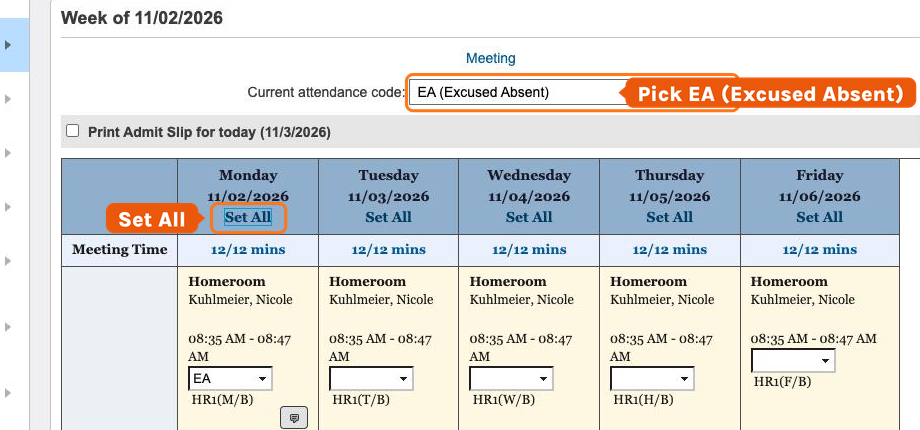
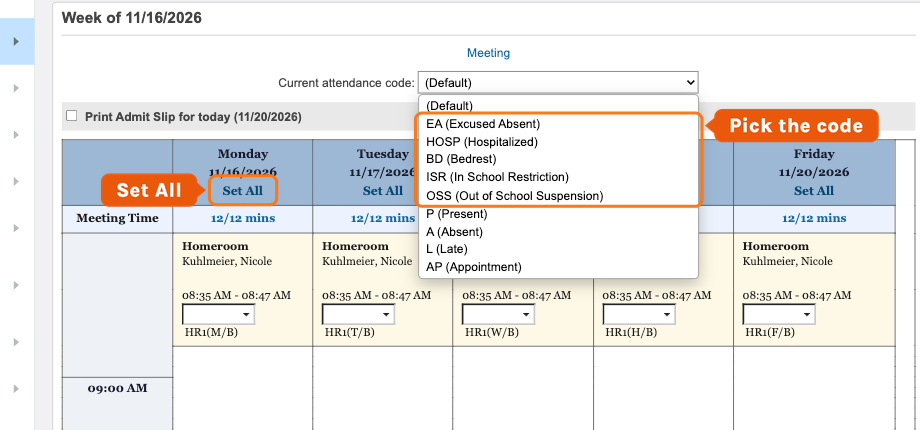
Enter an Attendance Code: picture 4 re-shot with the code list open

diff --git a/excuse-absence-admin.html b/excuse-absence-admin.html
@@ -153,7 +153,7 @@ body.narrow table.codes.pick td.w::before{content:"Usually: ";font-weight:400;co
 
 <section class="step" id="step-3"><span class="eyebrow">STEP 3 OF 5</span><h2>Click Attendance, then pick the week</h2><ol class="steps"><li><span class="num">1</span><div>In the student's left-hand menu click <span class="path">Attendance</span> &mdash; a menu pops out next to it.</div></li><li><span class="num">2</span><div><b>This week:</b> click <span class="path">Modify Attendance</span> in that pop-out menu.</div></li><li><span class="num">3</span><div><b>Any other week:</b> click <b>Attendance Overview</b> instead &mdash; the whole term, one column per week &mdash; then click the <b>blue dates</b> of the week you need at the top of the grid (for example <b>9/14-9/18</b>).</div></li></ol><figure class="fig"><a href="ea-2.png" target="_blank" rel="noopener"><img src="ea-2.png" alt="the Attendance pop-out menu with Modify Attendance"></a><div class="ph"><span class="pl">PICTURE 2</span>Screenshot coming: the Attendance pop-out menu with Modify Attendance.</div><figcaption><b>PICTURE 2</b> &mdash; This week: Attendance, then Modify Attendance in the pop-out.</figcaption></figure><figure class="fig"><a href="ea-3.png" target="_blank" rel="noopener"><img src="ea-3.png" alt="Attendance Overview with the blue week dates"></a><div class="ph"><span class="pl">PICTURE 3</span>Screenshot coming: Attendance Overview with the blue week dates.</div><figcaption><b>PICTURE 3</b> &mdash; Any other week: on Attendance Overview, click the blue dates of the week you need (here 9/14-9/18).</figcaption></figure><div class="pager"><button class="ghost" data-go="step-2">Back</button><button data-go="step-4">Next: Pick the code: EA &rarr;</button></div></section>
 
-<section class="step" id="step-4"><span class="eyebrow">STEP 4 OF 5</span><h2>Pick the code</h2><ol class="steps"><li><span class="num">1</span><div>Open the <b>Current attendance code</b> list and pick the code that fits. These five are at the <b>top</b> of the list.<table class="codes pick"><tr><th>PICK</th><th>THE STUDENT IS</th><th>WHO USUALLY</th></tr><tr><td class="c"><span class="path">EA (Excused Absent)</span></td><td>Absent and excused</td><td class="w">Social workers</td></tr><tr class="new"><td class="c"><span class="path">HOSP (Hospitalized)</span></td><td>In the hospital <i>&mdash; one day or weeks at a time</i></td><td class="w">Social workers</td></tr><tr><td class="c"><span class="path">BD (Bedrest)</span></td><td>On bed rest <i>&mdash; nurse OK</i></td><td class="w">Campus coordinators</td></tr><tr><td class="c"><span class="path">ISR (In School Restriction)</span></td><td>On in-school restriction</td><td class="w">Campus coordinators</td></tr><tr><td class="c"><span class="path">OSS (Out of School Suspension)</span></td><td>On out-of-school suspension</td><td class="w">Campus coordinators</td></tr></table></div></li><li><span class="num">2</span><div><b>Add the reason:</b> click the little <b>note button</b> in the class box and type a Comment. For <b>BD, ISR and OSS</b>, always add one &mdash; the code says what happened, the comment says why.</div></li></ol><figure class="fig"><a href="ea-4.png" target="_blank" rel="noopener"><img src="ea-4.png" alt="Current attendance code with a code picked, and Set All under the day"></a><div class="ph"><span class="pl">PICTURE 4</span>Screenshot coming: Current attendance code with a code picked, and Set All under the day.</div><figcaption><b>PICTURE 4</b> &mdash; Pick the code in Current attendance code (EA shown here), then click Set All under the day.</figcaption></figure><div class="callout"><div class="clabel">GOOD TO KNOW</div><div class="gk"><span class="ic">&#129309;</span><span>The campus coordinators usually enter <b>BD, ISR and OSS</b>. <b>Social workers can enter them too</b> if one isn't in yet.</span></div><div class="gk"><span class="ic">&#128274;</span><span>Until the code is in, teachers mark <b>A</b>. Once you enter it, teachers can't change it.</span></div></div><div class="pager"><button class="ghost" data-go="step-3">Back</button><button data-go="step-5">Next: Set All, then Submit &rarr;</button></div></section>
+<section class="step" id="step-4"><span class="eyebrow">STEP 4 OF 5</span><h2>Pick the code</h2><ol class="steps"><li><span class="num">1</span><div>Open the <b>Current attendance code</b> list and pick the code that fits. These five are at the <b>top</b> of the list.<table class="codes pick"><tr><th>PICK</th><th>THE STUDENT IS</th><th>WHO USUALLY</th></tr><tr><td class="c"><span class="path">EA (Excused Absent)</span></td><td>Absent and excused</td><td class="w">Social workers</td></tr><tr class="new"><td class="c"><span class="path">HOSP (Hospitalized)</span></td><td>In the hospital <i>&mdash; one day or weeks at a time</i></td><td class="w">Social workers</td></tr><tr><td class="c"><span class="path">BD (Bedrest)</span></td><td>On bed rest <i>&mdash; nurse OK</i></td><td class="w">Campus coordinators</td></tr><tr><td class="c"><span class="path">ISR (In School Restriction)</span></td><td>On in-school restriction</td><td class="w">Campus coordinators</td></tr><tr><td class="c"><span class="path">OSS (Out of School Suspension)</span></td><td>On out-of-school suspension</td><td class="w">Campus coordinators</td></tr></table></div></li><li><span class="num">2</span><div><b>Add the reason:</b> click the little <b>note button</b> in the class box and type a Comment. For <b>BD, ISR and OSS</b>, always add one &mdash; the code says what happened, the comment says why.</div></li></ol><figure class="fig"><a href="ea-4.png" target="_blank" rel="noopener"><img src="ea-4.png" alt="the Current attendance code list open, with EA, HOSP, BD, ISR and OSS at the top, and Set All under the day"></a><div class="ph"><span class="pl">PICTURE 4</span>Screenshot coming: the Current attendance code list open, and Set All under the day.</div><figcaption><b>PICTURE 4</b> &mdash; The Current attendance code list, open. Pick the code, then click Set All under the day.</figcaption></figure><div class="callout"><div class="clabel">GOOD TO KNOW</div><div class="gk"><span class="ic">&#129309;</span><span>The campus coordinators usually enter <b>BD, ISR and OSS</b>. <b>Social workers can enter them too</b> if one isn't in yet.</span></div><div class="gk"><span class="ic">&#128274;</span><span>Until the code is in, teachers mark <b>A</b>. Once you enter it, teachers can't change it.</span></div></div><div class="pager"><button class="ghost" data-go="step-3">Back</button><button data-go="step-5">Next: Set All, then Submit &rarr;</button></div></section>
 
 <section class="step" id="step-5"><span class="eyebrow">STEP 5 OF 5</span><h2>Click Set All under the day, then Submit</h2><ol class="steps"><li><span class="num">1</span><div>Under the date, click <span class="path">Set All</span> &mdash; every period of that day turns to the code you picked.</div></li><li><span class="num">2</span><div>Only part of the day? Click the single periods instead.</div></li><li><span class="num">3</span><div>More than one day this week? Click <span class="path">Set All</span> under each day.</div></li><li><span class="num">4</span><div>Scroll to the bottom and click <span class="path">Submit</span>. It stays gray until you have changed something.</div></li></ol><figure class="fig"><a href="ea-5.png" target="_blank" rel="noopener"><img src="ea-5.png" alt="the Submit button at the bottom of Modify Attendance"></a><div class="ph"><span class="pl">PICTURE 5</span>Screenshot coming: the Submit button at the bottom of Modify Attendance.</div><figcaption><b>PICTURE 5</b> &mdash; Scroll to the bottom and click Submit (it turns blue once you changed something).</figcaption></figure><div class="callout"><div class="clabel">GOOD TO KNOW</div><div class="gk"><span class="ic">&#128198;</span><span><b>Longer than this week</b> (a hospital stay, an OSS)? Do one week at a time &mdash; open each week from its <b>blue dates</b> (step 3).</span></div><div class="gk"><span class="ic">&#9993;&#65039;</span><span>Wrong day or can't find the student? Reach out &mdash; contact info is at the bottom of this page.</span></div></div><div class="pager"><button class="ghost" data-go="step-4">Back</button><button data-go="codes">Next: the codes &rarr;</button></div></section>
 
